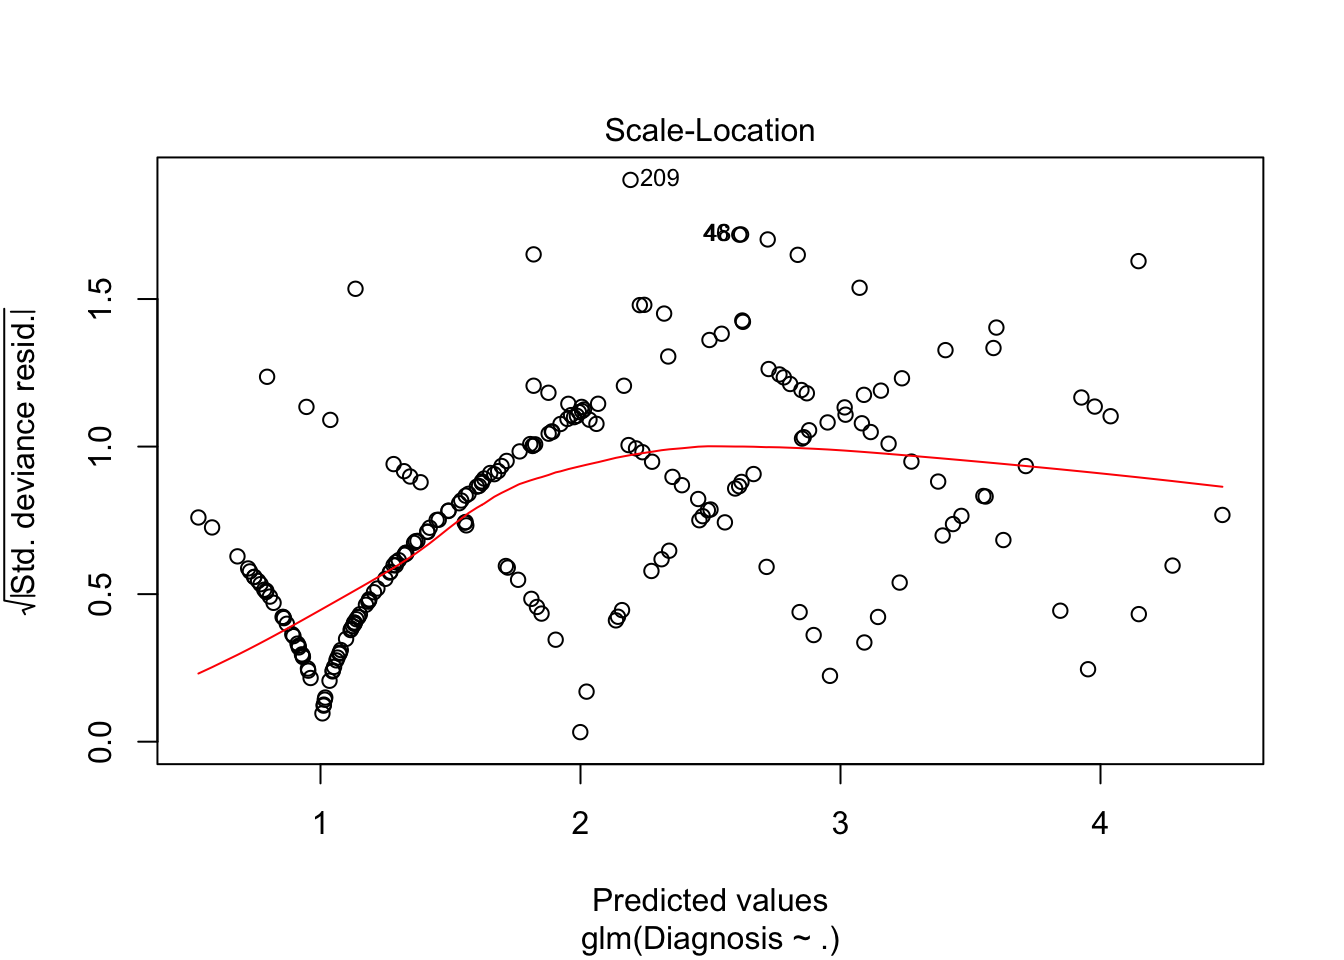
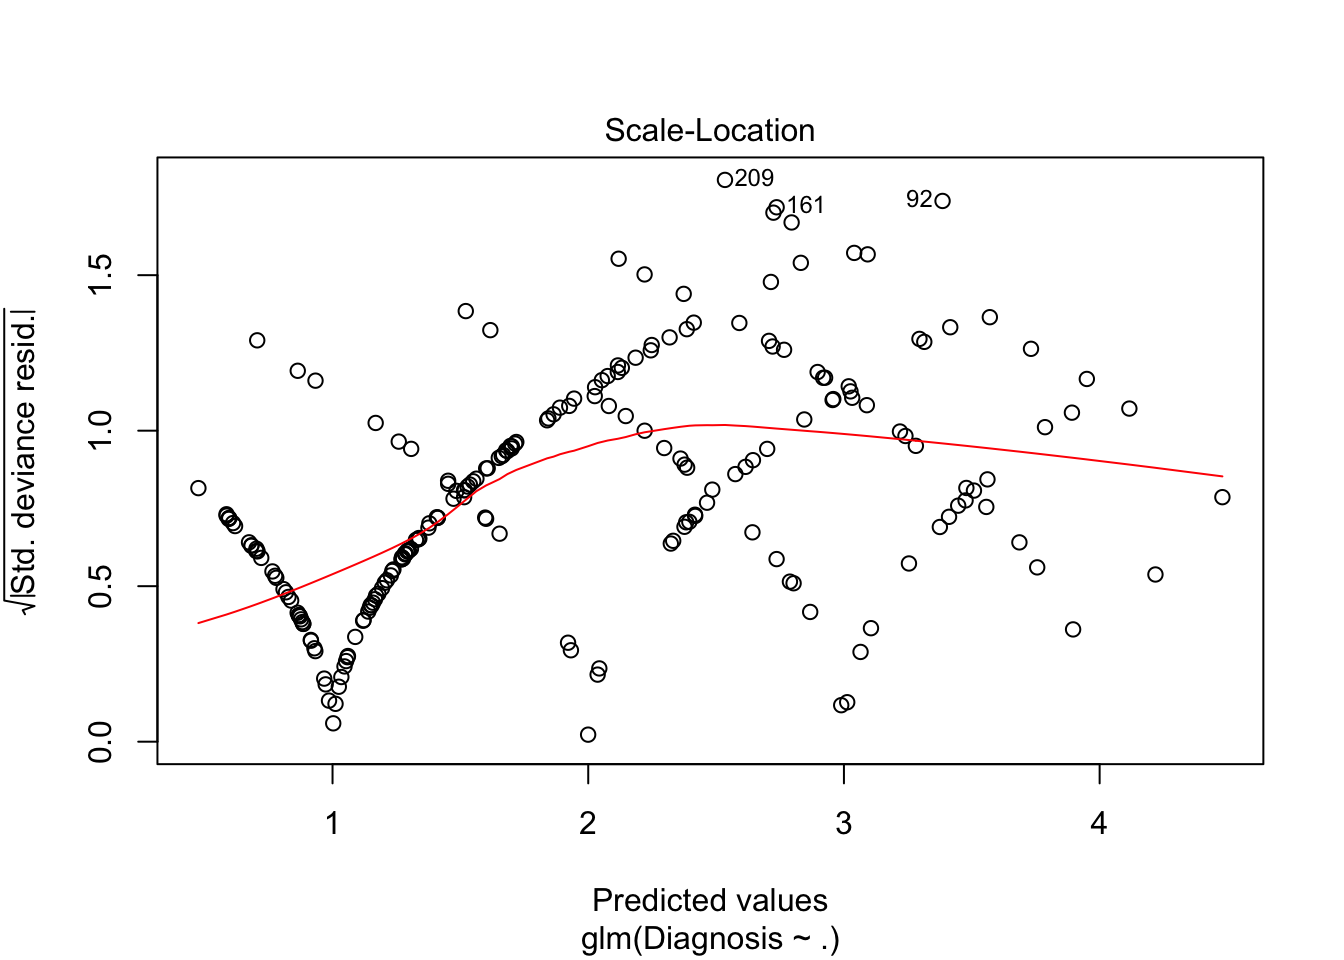
finished

diff --git a/content/post/Analysis_heart_conditions.html b/content/post/Analysis_heart_conditions.html
@@ -108,13 +108,13 @@ data.rpart</code></pre>
 ## Summary of sample sizes: 223, 223, 223, 223, 223, 223, ... 
 ## Resampling results across tuning parameters:
 ## 
-##   cp          Accuracy   Kappa    
-##   0.03669725  0.5267398  0.2207780
-##   0.04587156  0.5215077  0.2127531
-##   0.05963303  0.5171869  0.2123543
+##   cp     Accuracy   Kappa    
+##   0.030  0.5764883  0.2601828
+##   0.035  0.5779894  0.2579997
+##   0.070  0.5729358  0.1925289
 ## 
 ## Accuracy was used to select the optimal model using  the largest value.
-## The final value used for the model was cp = 0.03669725.</code></pre>
+## The final value used for the model was cp = 0.035.</code></pre>
 <pre class="r"><code># We can look at the decision tree here
 data.rpart$finalModel</code></pre>
 <pre><code>## n= 223 
@@ -122,53 +122,51 @@ data.rpart$finalModel</code></pre>
 ## node), split, n, loss, yval, (yprob)
 ##       * denotes terminal node
 ## 
-##  1) root 223 109 0  (0.51 0.21 0.12 0.12 0.045)  
-##    2) Thal3.0&gt;=0.5 121  30 0  (0.75 0.16 0.05 0.033 0.0083) *
-##    3) Thal3.0&lt; 0.5 102  74 1  (0.23 0.27 0.2 0.22 0.088)  
-##      6) Fluoroscopy_stain0.0&gt;=0.5 45  26 0  (0.42 0.31 0.067 0.13 0.067) *
-##      7) Fluoroscopy_stain0.0&lt; 0.5 57  40 2  (0.07 0.25 0.3 0.28 0.11)  
-##       14) Fluoroscopy_stain1.0&gt;=0.5 26  16 1  (0.077 0.38 0.31 0.15 0.077) *
-##       15) Fluoroscopy_stain1.0&lt; 0.5 31  19 3  (0.065 0.13 0.29 0.39 0.13) *</code></pre>
+## 1) root 223 100 0  (0.55 0.17 0.13 0.11 0.045)  
+##   2) Chest_Pain4.0&lt; 0.5 114  23 0  (0.8 0.11 0.026 0.044 0.018) *
+##   3) Chest_Pain4.0&gt;=0.5 109  77 0  (0.29 0.23 0.23 0.17 0.073)  
+##     6) Fluoroscopy_stain0.0&gt;=0.5 55  26 0  (0.53 0.2 0.15 0.11 0.018) *
+##     7) Fluoroscopy_stain0.0&lt; 0.5 54  37 2  (0.056 0.26 0.31 0.24 0.13) *</code></pre>
 <pre class="r"><code>#--------------------------Testing the rpart model and looking at output---------------------------------
 
 predict(data.rpart, test)</code></pre>
-<pre><code>##  [1] 3  0  0  0  1  0  0  0  0  0  3  0  0  0  0  0  0  1  0  0  0  0  0 
-## [24] 3  1  0  0  0  0  3  1  0  1  0  1  0  0  0  3  0  0  0  0  0  1  0 
-## [47] 0  0  0  0  0  3  1  0  0  0  0  0  0  0  0  0  0  1  3  0  0  0  0 
-## [70] 1  0  0  0  0 
+<pre><code>##  [1] 2  0  2  0  0  0  2  2  0  2  2  0  2  2  0  0  0  2  0  2  2  0  0 
+## [24] 2  0  2  2  0  0  0  0  0  0  0  0  2  2  0  0  0  0  0  0  2  0  0 
+## [47] 0  0  0  0  0  0  0  0  0  0  2  0  2  0  0  2  0  0  0  2  2  0  0 
+## [70] 0  0  0  2  0 
 ## Levels: 0  1  2  3  4</code></pre>
 <pre class="r"><code>confusionMatrix(predict(data.rpart, test), test$Diagnosis)</code></pre>
 <pre><code>## Confusion Matrix and Statistics
 ## 
 ##           Reference
 ## Prediction 0  1  2  3  4 
-##         0  44  4  4  4  1
-##         1   2  2  4  2  0
-##         2   0  0  0  0  0
-##         3   0  1  1  3  2
+##         0  35 10  3  2  1
+##         1   0  0  0  0  0
+##         2   2  6  4  9  2
+##         3   0  0  0  0  0
 ##         4   0  0  0  0  0
 ## 
 ## Overall Statistics
 ##                                           
-##                Accuracy : 0.6622          
-##                  95% CI : (0.5428, 0.7681)
-##     No Information Rate : 0.6216          
-##     P-Value [Acc &gt; NIR] : 0.2768          
+##                Accuracy : 0.527           
+##                  95% CI : (0.4075, 0.6443)
+##     No Information Rate : 0.5             
+##     P-Value [Acc &gt; NIR] : 0.3638          
 ##                                           
-##                   Kappa : 0.3201          
+##                   Kappa : 0.2445          
 ##  Mcnemar&#39;s Test P-Value : NA              
 ## 
 ## Statistics by Class:
 ## 
 ##                      Class: 0  Class: 1  Class: 2  Class: 3  Class: 4 
-## Sensitivity             0.9565   0.28571    0.0000   0.33333   0.00000
-## Specificity             0.5357   0.88060    1.0000   0.93846   1.00000
-## Pos Pred Value          0.7719   0.20000       NaN   0.42857       NaN
-## Neg Pred Value          0.8824   0.92188    0.8784   0.91045   0.95946
-## Prevalence              0.6216   0.09459    0.1216   0.12162   0.04054
-## Detection Rate          0.5946   0.02703    0.0000   0.04054   0.00000
-## Detection Prevalence    0.7703   0.13514    0.0000   0.09459   0.00000
-## Balanced Accuracy       0.7461   0.58316    0.5000   0.63590   0.50000</code></pre>
+## Sensitivity             0.9459    0.0000   0.57143    0.0000   0.00000
+## Specificity             0.5676    1.0000   0.71642    1.0000   1.00000
+## Pos Pred Value          0.6863       NaN   0.17391       NaN       NaN
+## Neg Pred Value          0.9130    0.7838   0.94118    0.8514   0.95946
+## Prevalence              0.5000    0.2162   0.09459    0.1486   0.04054
+## Detection Rate          0.4730    0.0000   0.05405    0.0000   0.00000
+## Detection Prevalence    0.6892    0.0000   0.31081    0.0000   0.00000
+## Balanced Accuracy       0.7568    0.5000   0.64392    0.5000   0.50000</code></pre>
 <p>.</p>
 <p>Looking at the output of the code, we see that we have 223 samples for the training set, with 13 predictors and 5 classes. This all sounds good. One interesting aspect of the rpart model is that it is able to give us different complexity parameters and their subsequent accuracy is used in the model. The complexity parameter is effectively a measurement of how deep your decision tree is. If this doesn’t make sense, I suggest doing some background reading on it. We see which complexity parameter gives us the highest level of accuracy, which can be seen to be worryingly low here. Not to worry however, as we haven’t tested the model yet. We can also have a look at the decision tree if we wish to.</p>
 <p>.</p>
@@ -194,33 +192,33 @@ summary(logistic)</code></pre>
 ## glm(formula = Diagnosis ~ ., data = train)
 ## 
 ## Deviance Residuals: 
-##      Min        1Q    Median        3Q       Max  
-## -2.14617  -0.49632  -0.09834   0.28568   2.80767  
+##     Min       1Q   Median       3Q      Max  
+## -2.3857  -0.4744  -0.0585   0.4012   2.4653  
 ## 
 ## Coefficients:
 ##                             Estimate Std. Error t value Pr(&gt;|t|)    
-## (Intercept)               -1.7291298  0.4929731  -3.508 0.000554 ***
-## Age                       -0.0113364  0.0074008  -1.532 0.127085    
-## Sex                        0.1521410  0.1330508   1.143 0.254147    
-## Chest_Pain                 0.1827598  0.0702621   2.601 0.009956 ** 
-## Blood_Pressure             0.0032874  0.0055633   0.591 0.555218    
-## Cholestoral                0.0001243  0.0015599   0.080 0.936540    
-## Blood_Sugar                0.0981886  0.1655159   0.593 0.553670    
-## ecg                        0.0666642  0.0598035   1.115 0.266250    
-## Max_Heart_Rate            -0.0040355  0.0032895  -1.227 0.221286    
-## eia                        0.2141855  0.1381934   1.550 0.122679    
-## Exercise_induced_feelings  0.0203465  0.0074881   2.717 0.007136 ** 
-## Slope_of_ST                0.1682030  0.1177772   1.428 0.154743    
-## Fluoroscopy_stain          0.5159553  0.0685620   7.525 1.54e-12 ***
-## Thal                       0.2655519  0.0703287   3.776 0.000208 ***
+## (Intercept)               -2.3310062  0.4888306  -4.769 3.48e-06 ***
+## Age                       -0.0022896  0.0074120  -0.309 0.757700    
+## Sex                        0.2909961  0.1340940   2.170 0.031128 *  
+## Chest_Pain                 0.1903944  0.0641811   2.967 0.003363 ** 
+## Blood_Pressure             0.0035302  0.0052365   0.674 0.500968    
+## Cholestoral                0.0007734  0.0015134   0.511 0.609868    
+## Blood_Sugar               -0.0591353  0.1563128  -0.378 0.705581    
+## ecg                        0.0517031  0.0562955   0.918 0.359455    
+## Max_Heart_Rate            -0.0003148  0.0031448  -0.100 0.920366    
+## eia                        0.3243484  0.1368840   2.370 0.018722 *  
+## Exercise_induced_feelings  0.0254096  0.0068618   3.703 0.000273 ***
+## Slope_of_ST                0.2501769  0.1114228   2.245 0.025796 *  
+## Fluoroscopy_stain          0.4140506  0.0659603   6.277 1.96e-09 ***
+## Thal                       0.2927252  0.0699408   4.185 4.19e-05 ***
 ## ---
 ## Signif. codes:  0 &#39;***&#39; 0.001 &#39;**&#39; 0.01 &#39;*&#39; 0.05 &#39;.&#39; 0.1 &#39; &#39; 1
 ## 
-## (Dispersion parameter for gaussian family taken to be 0.6910157)
+## (Dispersion parameter for gaussian family taken to be 0.6573012)
 ## 
-##     Null deviance: 326.85  on 222  degrees of freedom
-## Residual deviance: 144.42  on 209  degrees of freedom
-## AIC: 565.97
+##     Null deviance: 333.38  on 222  degrees of freedom
+## Residual deviance: 137.38  on 209  degrees of freedom
+## AIC: 554.81
 ## 
 ## Number of Fisher Scoring iterations: 2</code></pre>
 <pre class="r"><code>plot(logistic)</code></pre>
@@ -259,7 +257,10 @@ names &lt;- names(train.scaled)
 names.all &lt;- as.formula(paste(&quot;Diagnosis ~&quot;, paste(names[!names %in% &quot;Diagnosis&quot;], collapse = &quot; + &quot;)))
 nn &lt;- neuralnet(names.all,data=train.scaled,hidden=c(5,3),linear.output=T)
 plot(nn)</code></pre>
-<p>!(neural_network.png)</p>
+<div class="figure">
+<img src="neural_network.png" />
+
+</div>
 <pre class="r"><code># We compute our test data with the model  
 pr.nn &lt;- compute(nn,test.scaled[ ,1:5])      
 
@@ -272,7 +273,7 @@ test.r &lt;- (test.scaled$Diagnosis)*(max(data$Diagnosis)-min(data$Diagnosis))+m
 Results_of_Neural_Network &lt;- pr.nn_
 MSE.nn &lt;- sum((test.r - pr.nn_)^2)/nrow(test.scaled)
 print(MSE.nn)</code></pre>
-<pre><code>## [1] 1.040044138</code></pre>
+<pre><code>## [1] 1.683030207</code></pre>
 <pre class="r"><code># We now plot our results
 par(mfrow=c(1,2))
 plot(test$Diagnosis,Results_of_Neural_Network, col=&#39;blue&#39;,main=&#39;Real vs predicted NN&#39;,pch=18,cex=0.7)

diff --git a/content/post/2017-07-17-r-package.html b/content/post/2017-07-17-r-package.html
@@ -10,6 +10,7 @@ tags: []
 
 
 <p>In this weeks project, we had to create an R package. We created one based on movies. You are able to discover movies using the discovr function after inputting genre, director, main actor and minimum imdb rating as well as obtaining the information about a movie using the searchr function.</p>
+<p>The Discovr function is shown directly below, while the Searchr function is shown below that.</p>
 <pre class="r"><code>movie_disc &lt;- function(genre = NA, rating = 0, director = NA, actor = NA) {
 
   if ( is.na(genre)) stop (&quot;Please enter a genre for your movie.&quot;, call. = FALSE)
@@ -30,4 +31,11 @@ tags: []
 
 
   movie_metadata$movie_title[ class1 ]
+}</code></pre>
+<pre class="r"><code>MovieFinder &lt;- function(movie_title_search){
+  library(dplyr)
+  if(!any(grepl(movie_title_search, movie_metadata$movie_title))) stop(&quot;This movie does not exist in this dataset&quot;)
+  searchMovie &lt;- filter(movie_metadata, grepl(movie_title_search, movie_metadata$movie_title))
+  select(searchMovie, movie_title, director_name, genres, actor_1_name, content_rating)
+
 }</code></pre>
